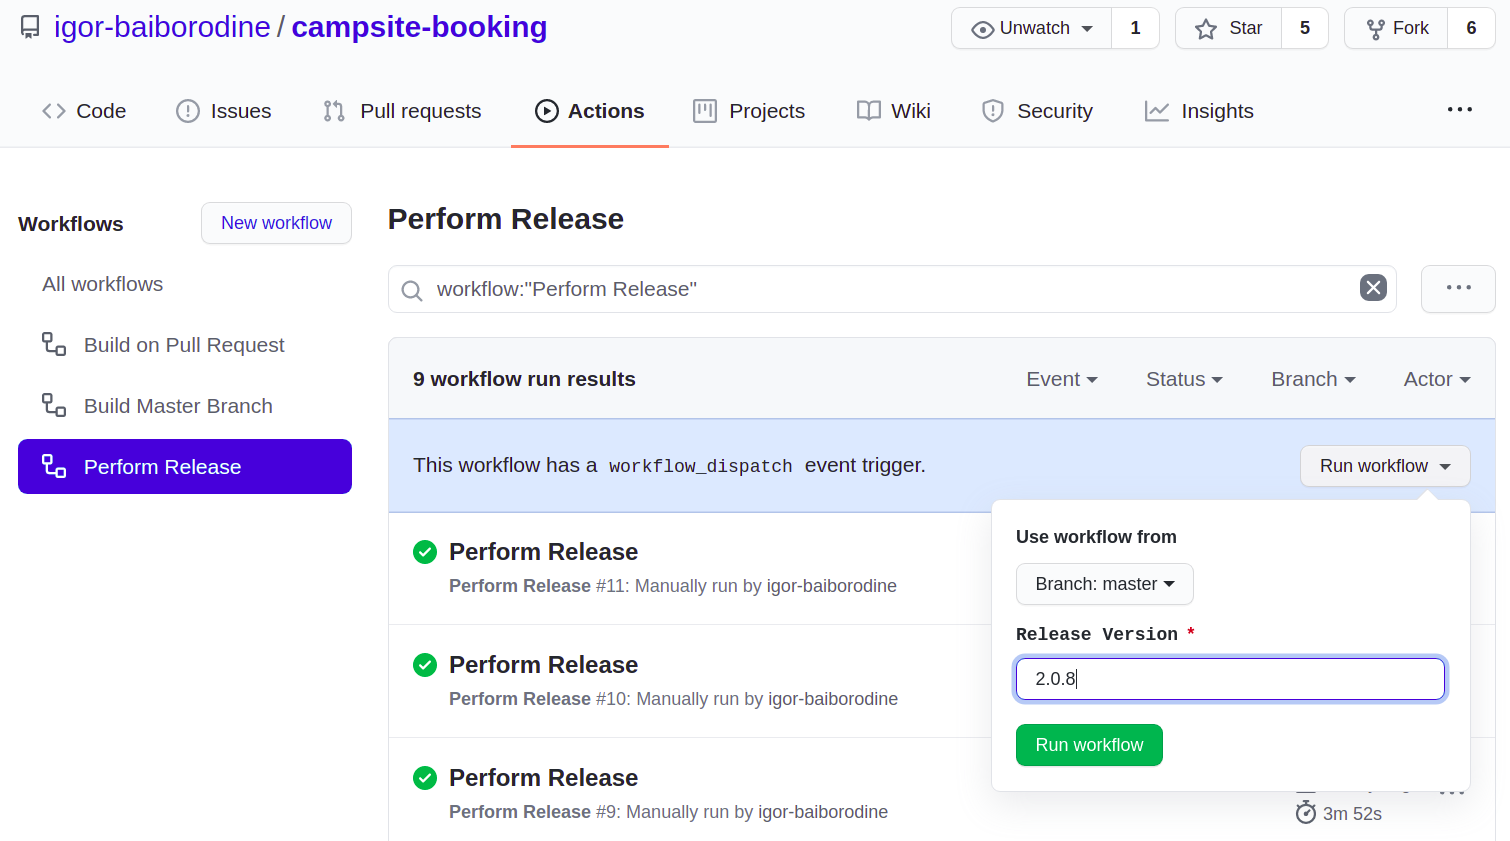
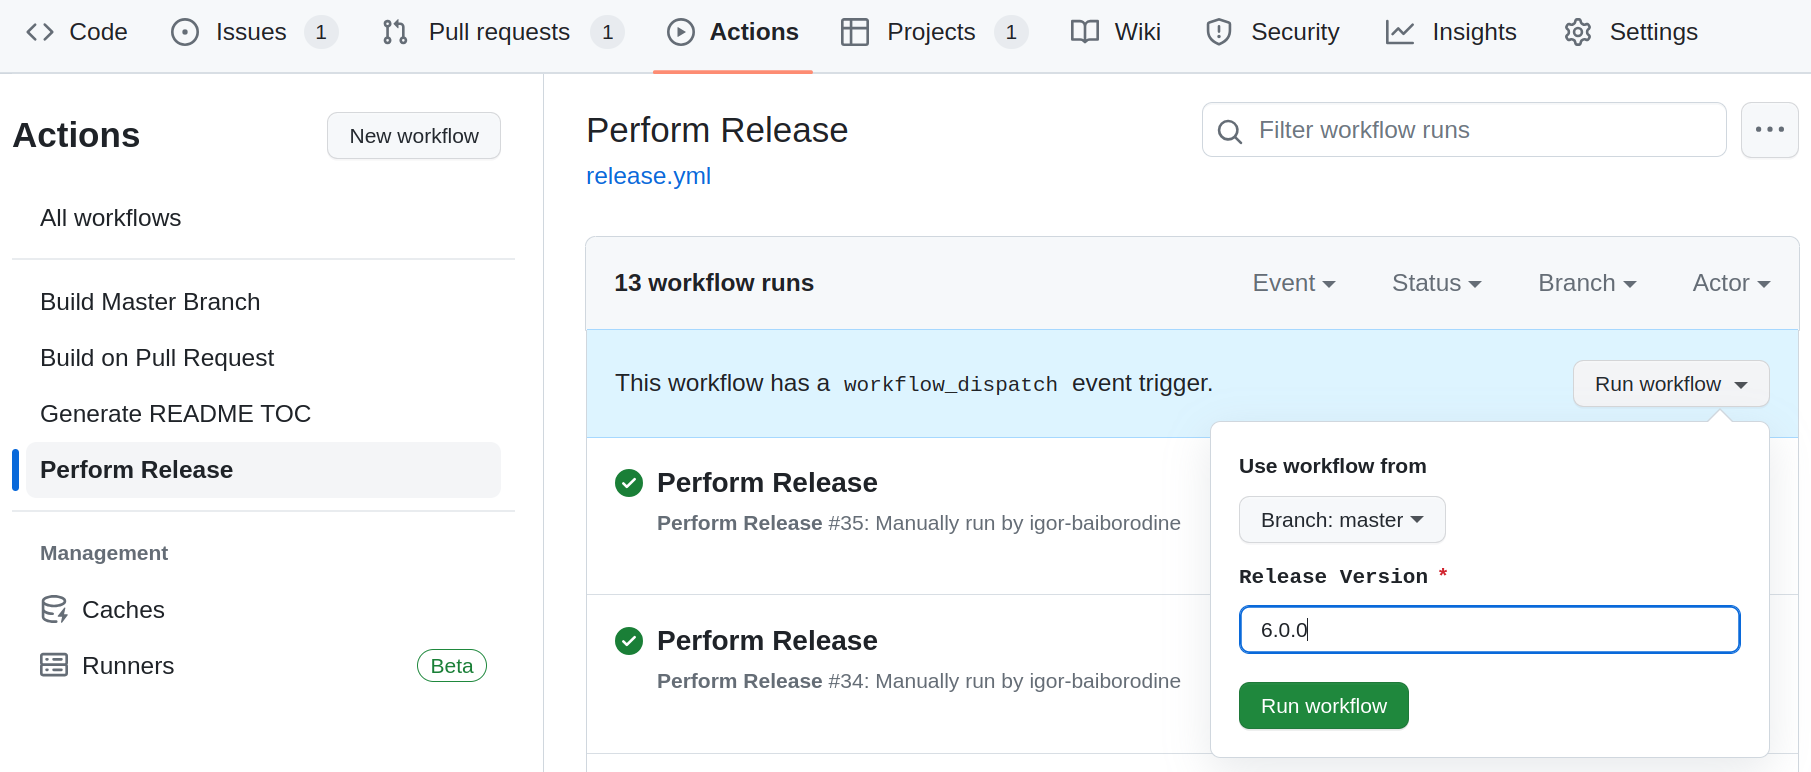
docs: update "Continuous Integration" section in README (#102)

diff --git a/readme/README.md b/readme/README.md
@@ -55,6 +55,13 @@ date(s). Demonstrate with appropriate test cases that the system can gracefully 
 * The system should be able to handle large volume of requests for getting the campsite availability.
 * There are no restrictions on how reservations are stored as long as system constraints are not violated.
 
+## Implementation Details
+
+This project is implemented using an API-first(or contract-first) approach along with Maven's
+multi-module project structure. You can read
+more [here](https://swagger.io/resources/articles/adopting-an-api-first-approach/) on the API-first
+development approach.
+
 ## Up & Running
 ### Run with Maven
 ```bash
@@ -135,8 +142,8 @@ The API can be tested via the Swagger UI:
 
 ![Swagger UI Main View](/readme/swagger-main-view.png)
 
-For example, to add a new booking, expand the `POST` operation. Then click on the `Try it out`, add the payload below to
-the `Request Body` text area, and click on the `Execute`:
+For example, to add a new booking, expand the `POST` operation. Then click on the `Try it out`, add
+the payload below to the `Request Body` text area, and click on the `Execute`:
 
 ```json
 {
@@ -296,24 +303,32 @@ Percentage of the requests served within a certain time (ms)
 
 ## Continuous Integration
 
-Continuous integration is implemented using GitHub Actions, and it includes the `Build on Pull Request`
-, `Build Master Branch`, and `Perform Release` workflows:
+Continuous integration is implemented using GitHub Actions, and it includes
+the `Build Master Branch`, `Build on Pull Request`, `Generate README TOC`, and `Perform Release`
+workflows:
 
 ![GitHub Actions](/readme/github-actions.png)
 
+### Build Master Branch
+
+This workflow is executed automatically on any commit to the `master` branch and consists of
+the `SonarCloud Scan` and `Snapshot Publishing` jobs:
+
+![Build Master Branch Workflow](/readme/github-actions-build-master-branch.png)
+
 ### Build on Pull Request
 
-This workflow is executed automatically on any pull request and consists of the `Unit & Integrations Tests`
-and `SonarCloud Scan` job:
+This workflow is executed automatically on any pull request and consists of
+the `Unit & SonarCloud Scan` job:
 
 ![Build on Pull Request Workflow](/readme/github-actions-build-on-pull-request.png)
 
-### Build Master Branch
+### Generate README TOC
 
-This workflow is executed automatically on any commit to the `master` branch and consists of the `SonarCloud Scan`
-and `Snapshot Publishing` jobs:
+This workflow is executed automatically on any update of the `readme/README.md` file pushed to
+the `master` branch and consists of the `Generate TOC` job:
 
-![Build Master Branch Workflow](/readme/github-actions-build-master-branch.png)
+![Generate README TOC Workflow](/readme/github-actions-generate-readme-toc.png)
 
 ### Perform Release
 This workflow is executed manually and consists of the `Maven Release` and `Docker Image` jobs:
